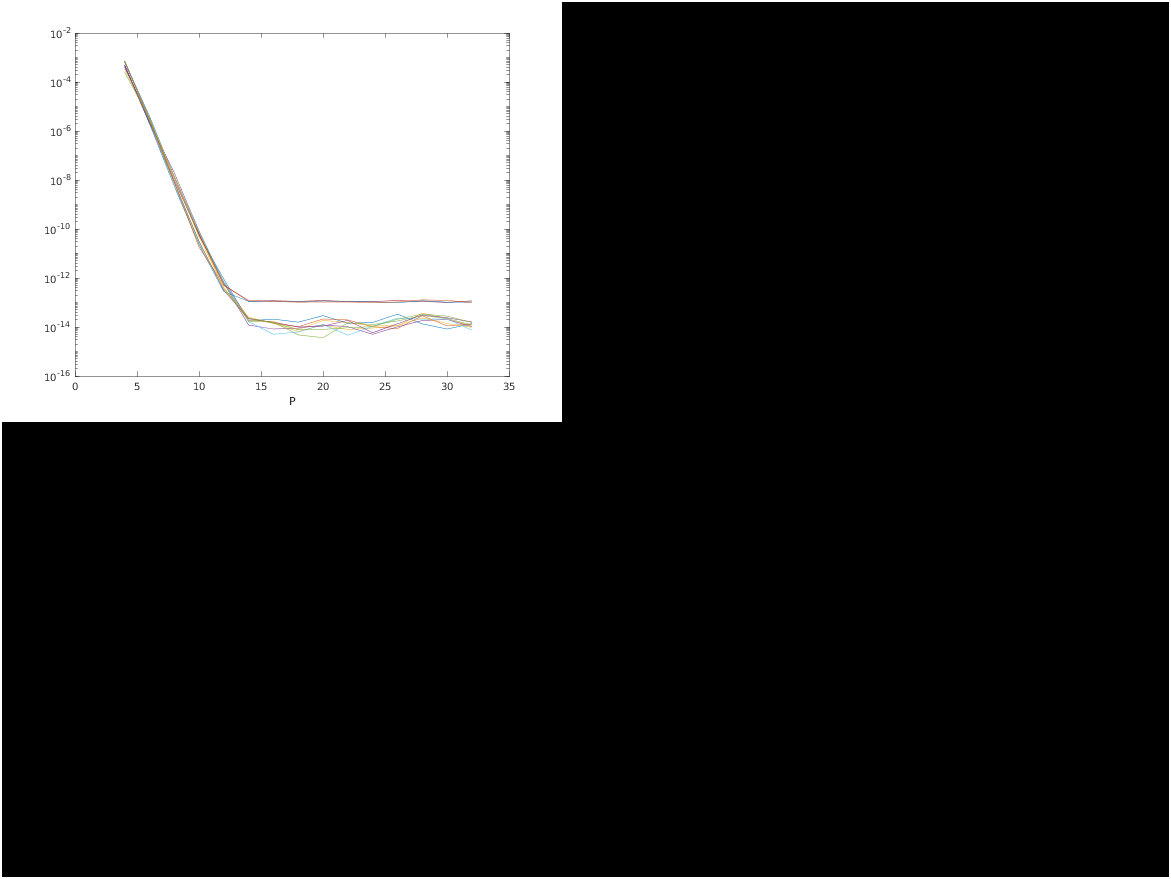
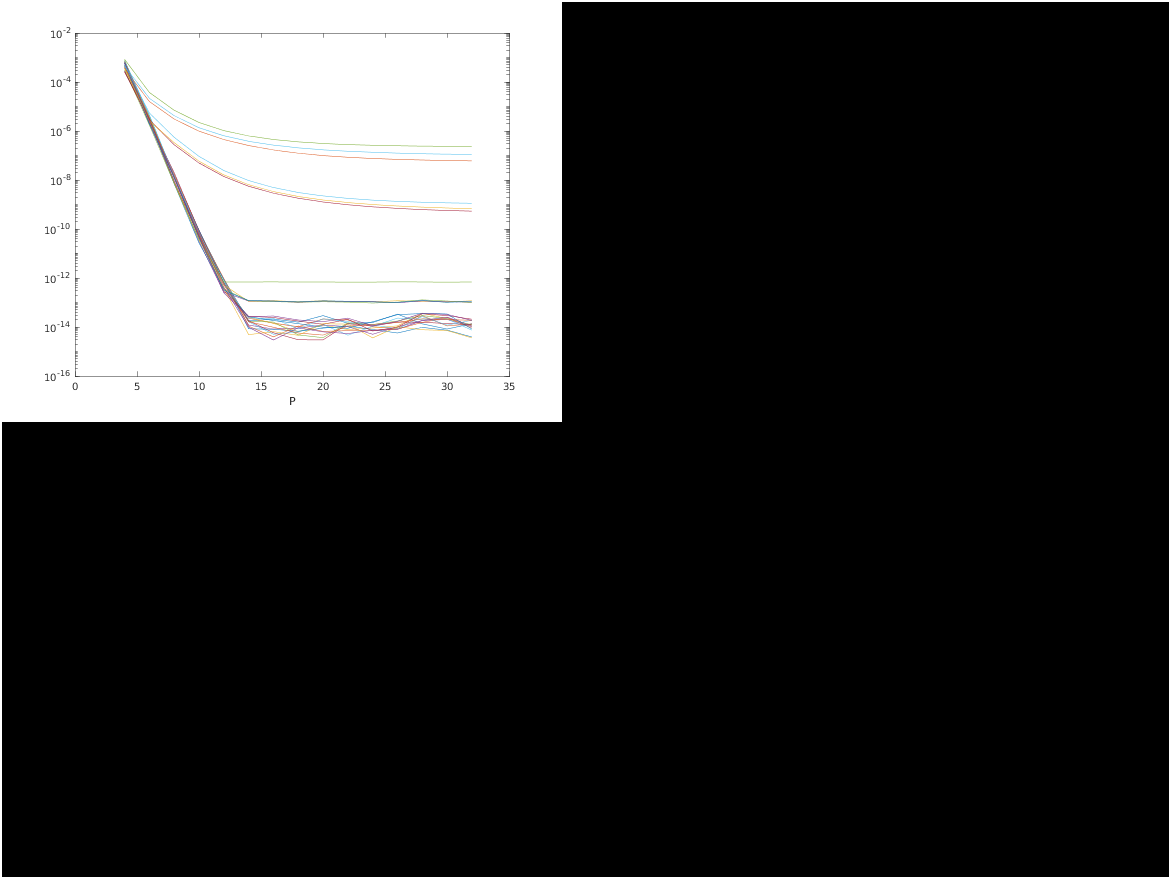
imgs

diff --git a/SE_Stokes_run/SE3P_Stokes/P_error.m b/SE_Stokes_run/SE3P_Stokes/P_error.m
@@ -61,7 +61,7 @@ for M = [128 MM]
 	semilogy(PP,ones(1,length(PP))*e)
 	str = [str strcat('M = ',num2str(M))];
 end
-semilogy(PP,exp.^(-2.5*PP))
+semilogy(PP,exp(-2.5.*PP),'-')
 str = [str, 'estimate'];
 legend(str)
 e = est(48,opt.xi,L,F);

diff --git a/SE_Stokes_run/SE3P_Stokes/xiLM_balance.m b/SE_Stokes_run/SE3P_Stokes/xiLM_balance.m
@@ -42,8 +42,8 @@ str = {};
 est = @(M,xi,L,f) sqrt(f)*(xi^3*L^2/(pi^4*(M/2)^(3/2)))*exp(-(pi*(M/2)/(xi*L))^2);
 e_vec = [];
 
-xx = [5,10];
-LL = [2,1];
+xx = [5,10,20];
+LL = [2,1,0.5];
 for xi = xx
     opt.xi = xi;
     for L = LL
